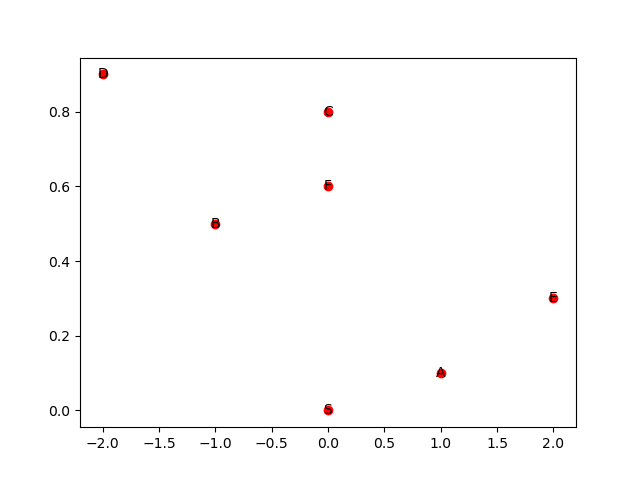
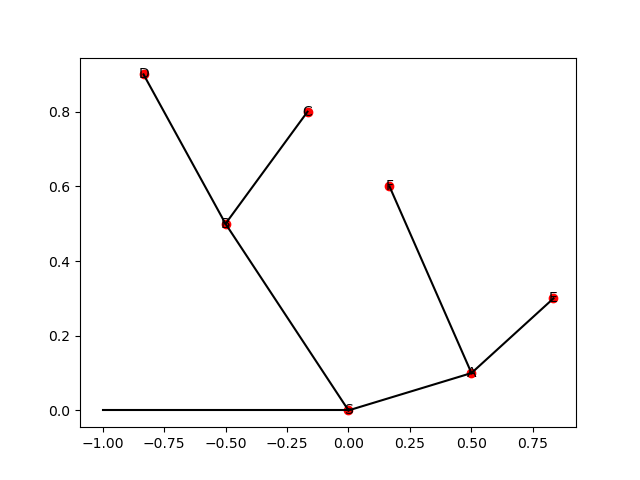
Fixed some bugs

diff --git a/main.py b/main.py
@@ -8,18 +8,19 @@ class TREE:
         self._getchild(Treedic)
         plt.savefig('test.png')
         pass
-    def _getchild(self,dic:dict,loc:tuple=(-1,0)):
+    def _getchild(self,dic:dict,loc:tuple=(-1,0),layer:int=1):
         x,y = loc
         for ind,root in enumerate(dic.keys()):
-            print(root)
+            print(root,layer)
             child = dic[root]
-            x = loc[0]+(-1)**(ind)
+            x = loc[0]+(-1)**(ind)/layer
             y = loc[1]+child[0]
-            print(x,y)
+            print([loc[0],x],[loc[1],y])
             # self.ax.text(*loc,root,ha='center')
             self.ax.text(x,y,root,ha='center',va='center')
             self.ax.scatter(x,y,color='red')
-            self._getchild(child[1],(x,y))
+            self.ax.plot([loc[0],x],[loc[1],y],color='black')
+            self._getchild(child[1],(x,y),layer+1)
 
 # nwk file (A:0.1,B:0.2,(C:0.3, D:0.4)E:0.5)F to dictionary
 tree_dict = {
